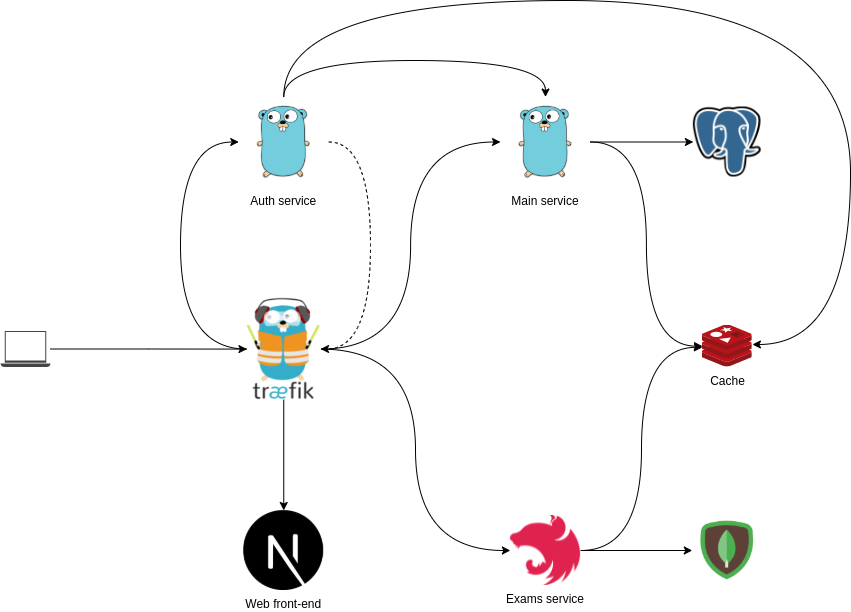
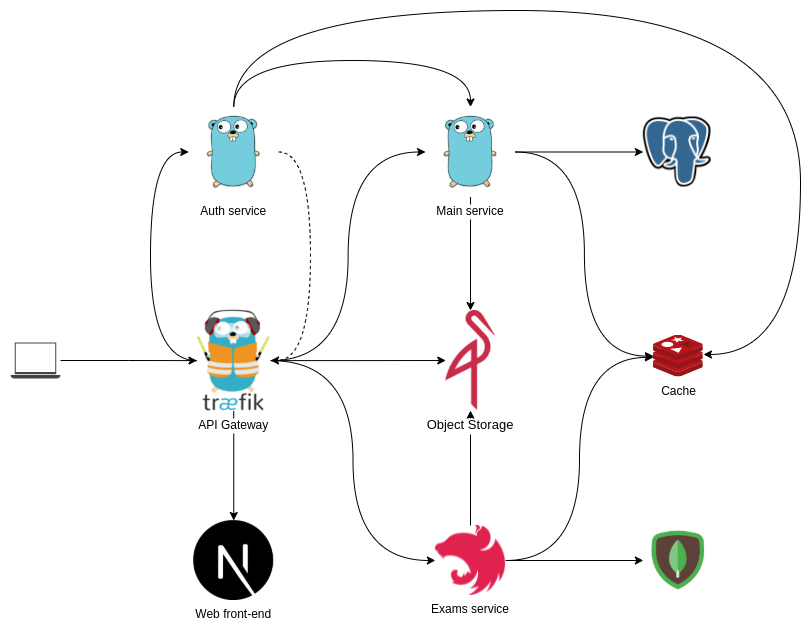
updated arquitecture img and docker-compose

diff --git a/readme.md b/readme.md
@@ -2,15 +2,23 @@
 
 [![Exams CI](https://github.com/Binaretech/Classroom-Exam-Service/actions/workflows/node.js.yml/badge.svg)](https://github.com/Binaretech/Classroom-Exam-Service/actions/workflows/node.js.yml)
 [![Web CI](https://github.com/Binaretech/classroom-web/actions/workflows/node.js.yml/badge.svg)](https://github.com/Binaretech/classroom-web/actions/workflows/node.js.yml)
-[![Auth CI](https://github.com/Binaretech/classroom-auth/actions/workflows/go.yml/badge.svg)](https://github.com/Binaretech/classroom-auth/actions/workflows/go.yml)[![Main CI](https://github.com/Binaretech/classroom-main/actions/workflows/go.yml/badge.svg)](https://github.com/Binaretech/classroom-main/actions/workflows/go.yml)
+[![Auth CI](https://github.com/Binaretech/classroom-auth/actions/workflows/go.yml/badge.svg)](https://github.com/Binaretech/classroom-auth/actions/workflows/go.yml)
+[![Main CI](https://github.com/Binaretech/classroom-main/actions/workflows/go.yml/badge.svg)](https://github.com/Binaretech/classroom-main/actions/workflows/go.yml)
 
 ## Arquitecture
 
-This project is made up with three services routed by `traefik`, two databases and a cache store
+This project is made up with three services and a web front end routed by `traefik`, two databases, a cache store and a object storage
 
 The following image describe the arquitecture and the tecnologies used
 
 ![arquitecture](/img/classroom-diagram.png)
+
+Each individual service is available at:
+
+* [Auth Service](https://github.com/Binaretech/classroom-auth)
+* [Web Front-End](https://github.com/Binaretech/classroom-web)
+* [Main Service](https://github.com/Binaretech/classroom-main)
+* [Exam Service](https://github.com/Binaretech/Classroom-Exam-Service) 
 
 ## Clone the source code
 
